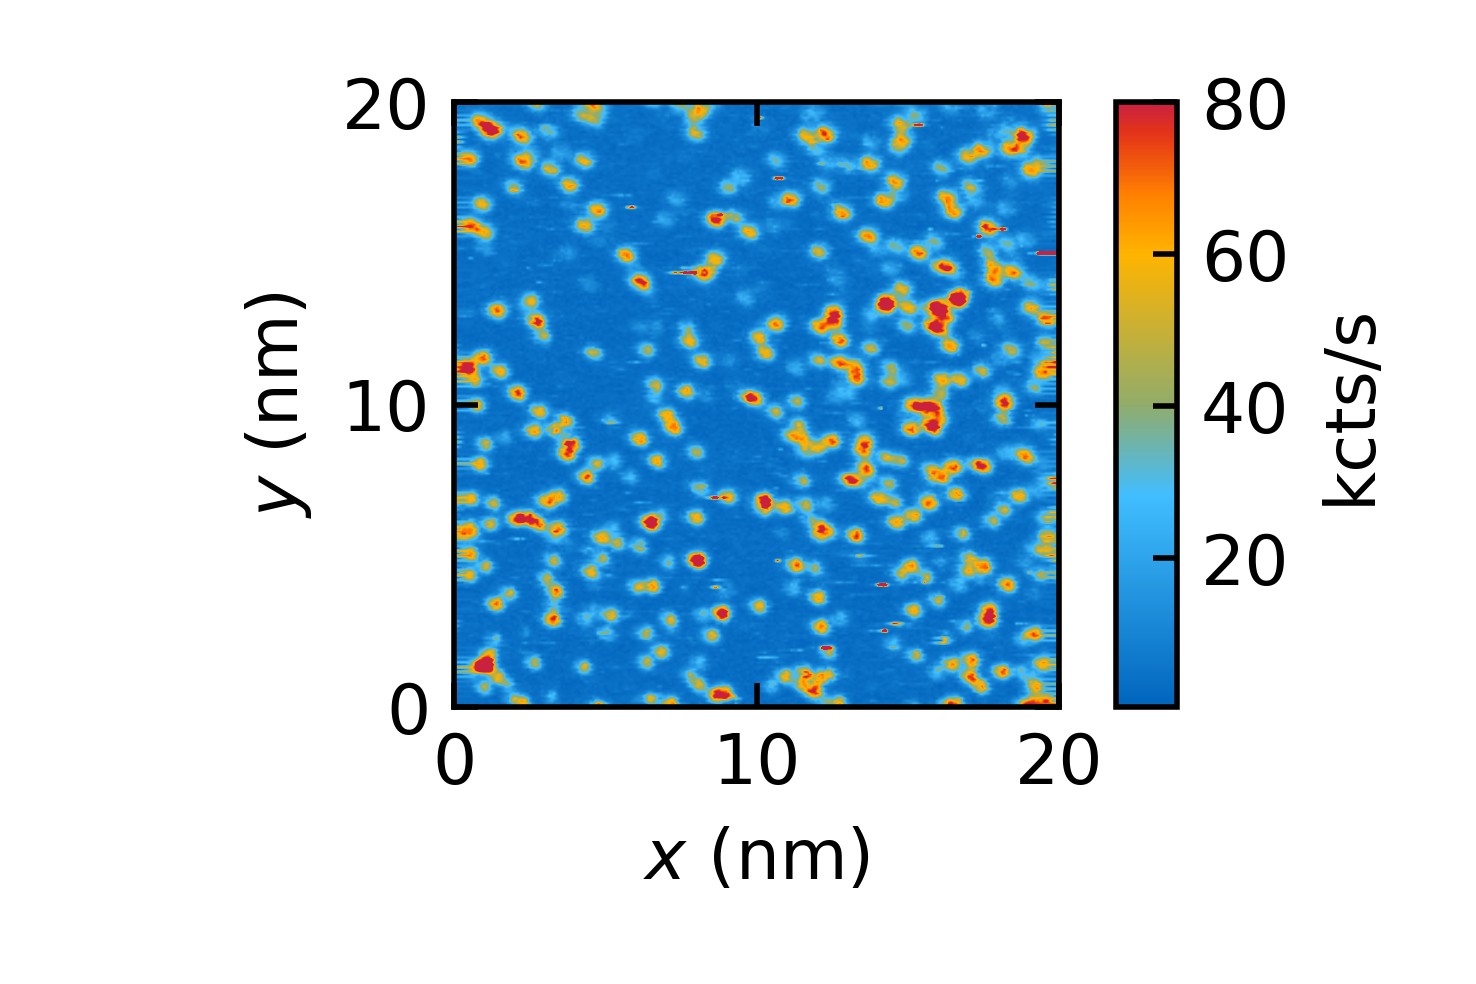
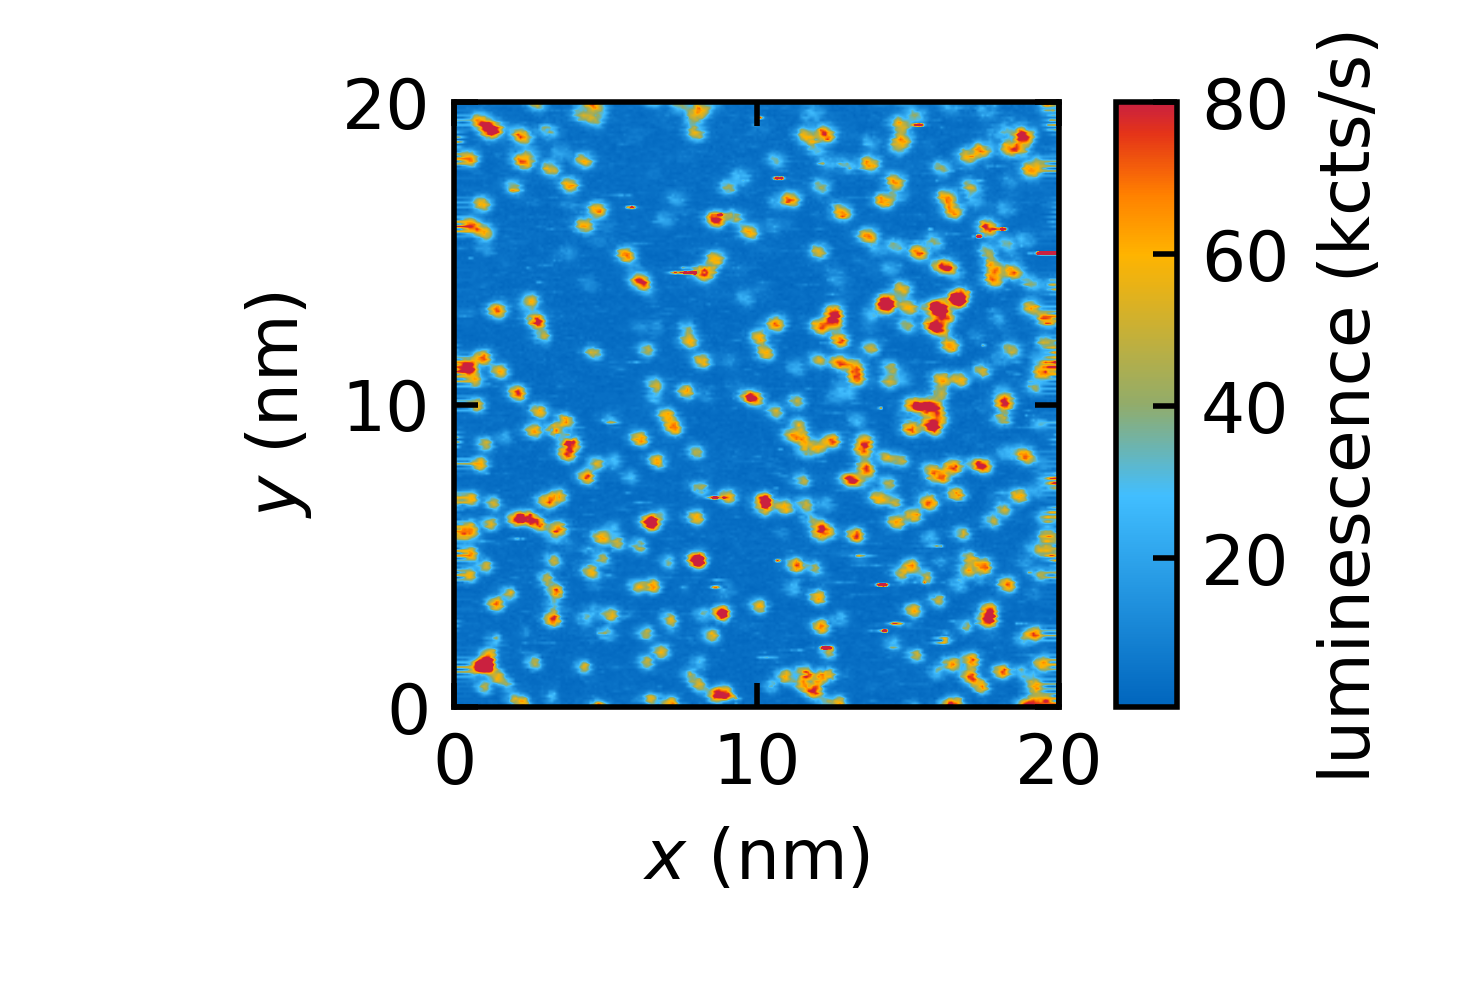
added chapter_3/magnet_scan

Changed region(s): [[0.8726, 0.0305, 0.935, 0.7927]]

diff --git a/images/chapter_3/magnet_scan.py b/images/chapter_3/magnet_scan.py
@@ -1,0 +1,92 @@
+import os
+
+import matplotlib.pyplot as plt
+import scipy.io as sio
+
+from util.inches import cm_to_inch
+from util.tum_jet import tum_jet
+
+
+def main():
+    plotter = MagnetScanPlotter()
+    plotter.plot_magnet_scan()
+
+
+class MagnetScanPlotter:
+
+    def __init__(self):
+        self.coordinates = 'coord_array'
+        self.counts = 'count_array'
+        self.wide_scan_data, self.zoom_scan_data = self.load_data()
+        self.x_offset, self.y_offset = self.calc_offsets()
+        self.fig, self.ax1, self.ax2 = self.create_figure_with_two_axes()
+        self.vmin, self.vmax = self.calc_min_max()
+
+    def plot_magnet_scan(self):
+        image = self.plot_one_axis(axis=self.ax1, data=self.wide_scan_data)
+        self.ax1.set_yticks([0, 10, 20])
+        self.plot_one_axis(axis=self.ax2, data=self.zoom_scan_data, y_offset=self.y_offset - 0.023)
+        self.ax2.set_yticks([12, 12.5, 13])
+
+        self.add_colorbar(image)
+
+        plt.savefig('magnet_scan.png', dpi=300)
+
+    def add_colorbar(self, image):
+        self.fig.subplots_adjust(bottom=0.2, top=0.92, left=0.08, right=0.85, wspace=0.2)
+        cbar_ax = self.fig.add_axes([0.85, 0.2, 0.04, 0.72])
+        self.fig.colorbar(image, cax=cbar_ax, label='luminescence (kcts/s)')
+
+    def calc_offsets(self):
+        x_offset = self.wide_scan_data[self.coordinates][0][0][0]
+        y_offset = self.wide_scan_data[self.coordinates][0][0][0]
+        return x_offset, y_offset
+
+    def plot_one_axis(self, axis, data, x_offset=None, y_offset=None):
+        x_offset, y_offset = self.ensure_offset_is_set(x_offset, y_offset)
+        norm_factor = 0.5e-4
+        image = axis.imshow(data[self.counts] * norm_factor, cmap=tum_jet, interpolation='bilinear', origin='lower',
+                            vmin=self.vmin * norm_factor, vmax=self.vmax * norm_factor,
+                            extent=[
+                                data[self.coordinates][0][0][0] - x_offset,
+                                data[self.coordinates][-1][-1][0] - x_offset,
+                                data[self.coordinates][0][0][1] - y_offset,
+                                data[self.coordinates][-1][-1][1] - y_offset
+                            ])
+        axis.set_xlabel(r'$x$-position (mm)')
+        axis.set_ylabel(r'$y$-position (mm)')
+        return image
+
+    def ensure_offset_is_set(self, x_offset, y_offset):
+        if x_offset is None:
+            x_offset = self.x_offset
+        if y_offset is None:
+            y_offset = self.y_offset
+        return x_offset, y_offset
+
+    @staticmethod
+    def create_figure_with_two_axes():
+        fig, (ax1, ax2) = plt.subplots(1, 2)
+        fig.set_figheight(cm_to_inch(5.5))
+        fig.set_figwidth(cm_to_inch(15))
+        return fig, ax1, ax2
+
+    @staticmethod
+    def load_data():
+        directory_path = '//file/e24/Projects/ReinhardLab/data_setup_nv1/190524_sample_N_40mA_highfield'
+        wide_scan_file = 'bscan.000.mat'
+        zoom_scan_file = 'bscan.005.mat'
+        wide_scan_data = sio.loadmat(os.path.join(directory_path, wide_scan_file))
+        zoom_scan_data = sio.loadmat(os.path.join(directory_path, zoom_scan_file))
+        return wide_scan_data, zoom_scan_data
+
+    def calc_min_max(self):
+        wide_min = self.wide_scan_data[self.counts].min()
+        wide_max = self.wide_scan_data[self.counts].max()
+        zoom_min = self.zoom_scan_data[self.counts].min()
+        zoom_max = self.zoom_scan_data[self.counts].max()
+        return min(wide_min, zoom_min) * 1.01, max(wide_max, zoom_max) * 0.93
+
+
+if __name__ == '__main__':
+    main()

diff --git a/images/chapter_3/confocal_scan.py b/images/chapter_3/confocal_scan.py
@@ -19,7 +19,7 @@ def main():
     plt.yticks([0, 10, 20])
     cbar = plt.colorbar(aspect=10)
     cbar.ax.set_yticklabels(['20', '40', '60', '80'])
-    cbar.set_label('kcts/s')
+    cbar.set_label('luminescence (kcts/s)')
     plt.tight_layout()
     plt.savefig('confocal_scan.png', dpi=500)
 
